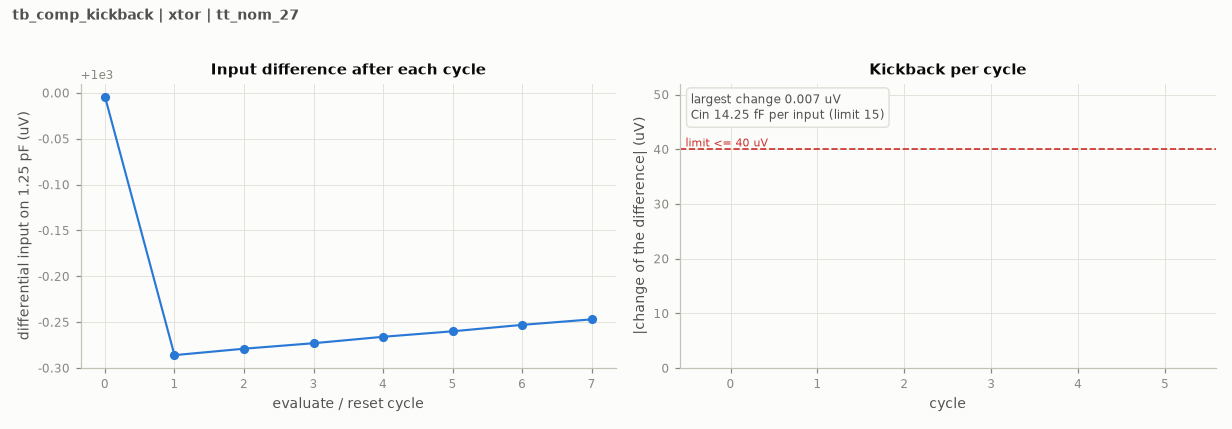
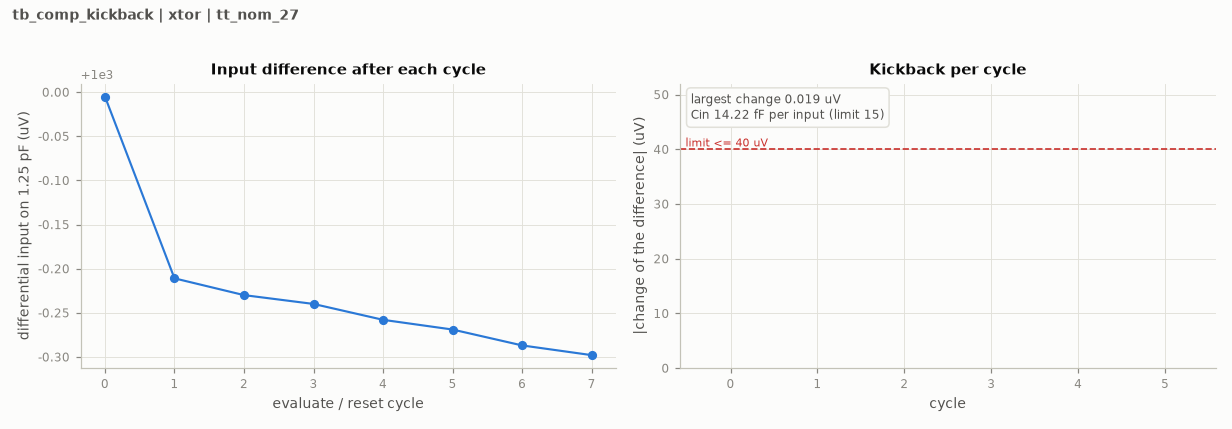
feat(adc_comp): checkpoint loaded Miyahara core before pause

diff --git a/design/xtor/adc_comp/README.md b/design/xtor/adc_comp/README.md
@@ -7,7 +7,7 @@ return-to-zero output inverters. The embedded RNL records show every device,
 wire and body connection and identify the differential pair, matched devices,
 regenerative group and reset group.
 
-Current checkpoint `my01` implements the self-timed core (M1-M15) of
+Current checkpoint `my02_c2` implements the self-timed core (M1-M15) of
 Miyahara et al., "A Low-Noise Self-Calibrating Dynamic Comparator for
 High-Speed ADCs," A-SSCC 2008, Fig. 2(b), DOI 10.1109/ASSCC.2008.4708780.
 The paper's offset-compensation devices and charge pump are omitted. P/N
@@ -76,9 +76,8 @@ the saved metrics. Recording verifies the staged netlists against the restored
 source. Temporary simulation jobs are removed only after local logs and
 outputs have been verified. Raw outputs are kept locally outside version control.
 
-No all-corner, mismatch or top-level acceptance is claimed. Next: exploit the
-speed margin through input-stage sizing and matched capacitive loading before
-considering a two-stage topology.
+No all-corner, mismatch or top-level acceptance is claimed. Both single-stage
+and two-stage experiments remain below the required noise performance.
 
 ## Two-stage comparison
 
@@ -86,6 +85,7 @@ considering a two-stage topology.
 |---|---|---|---|---|---|---|
 | dt01 | 251.9 uV | 56.25 / 44.27 ps | 14.70 ps | 115.32 fJ | 14.25 fF | 0.037 uV |
 | my01 | 262.1 uV | 59.34 / 48.31 ps | 31.06 ps | 115.16 fJ | 14.25 fF | 0.007 uV |
+| my02_c2 | 218.7 uV | 66.60 / 54.68 ps | 25.30 ps | 148.57 fJ | 14.22 fF | 0.019 uV |
 
 The two-stage clocked comparison meets the TT timing, energy, input-capacitance
 and kickback limits, but still fails noise. Its exact source and results are
@@ -96,3 +96,10 @@ The difference between its noise fit and dt01 is small relative to the
 limited number of noise decisions; neither is close to 80 uV. Its total MOS
 widths are 40 um (input), 1.5 um (tail), 3 um (second-stage PMOS input),
 3/2 um (PMOS/NMOS regeneration), and 2 um (reset), all at 30 nm length.
+
+The my02_c2 checkpoint uses a 2 um tail, 3 um reset devices and two identical
+MOM units on each preamplifier output; other sizes remain as in my01. Its
+noise is 218.7 uV against the 80 uV limit, and its 30 mV delay is 54.68 ps
+against the 50 ps limit. The energy of 148.57 fJ is close to the 150 fJ limit.
+This is a preserved experiment, not an accepted candidate. Its final RNL
+placement changes leave the electrical netlist hash unchanged.
